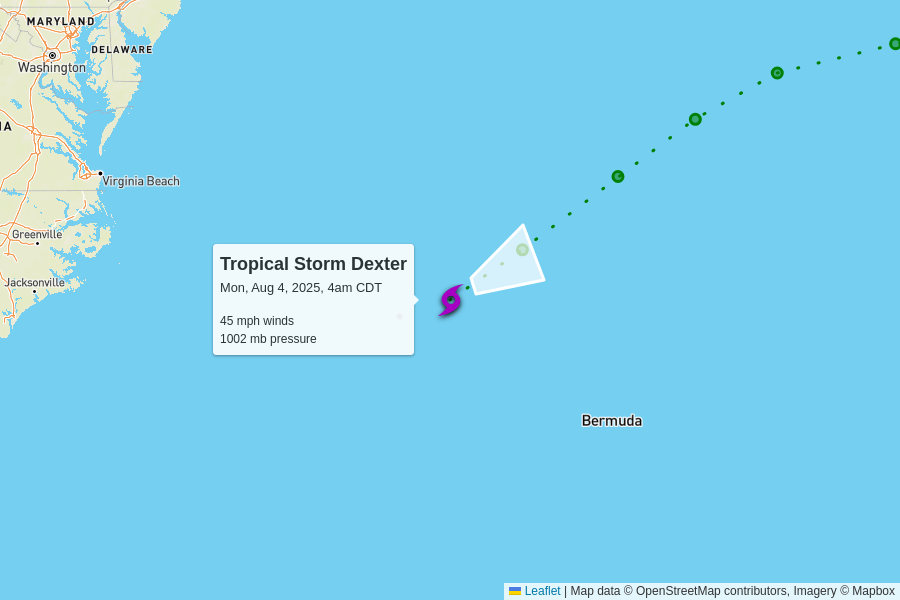
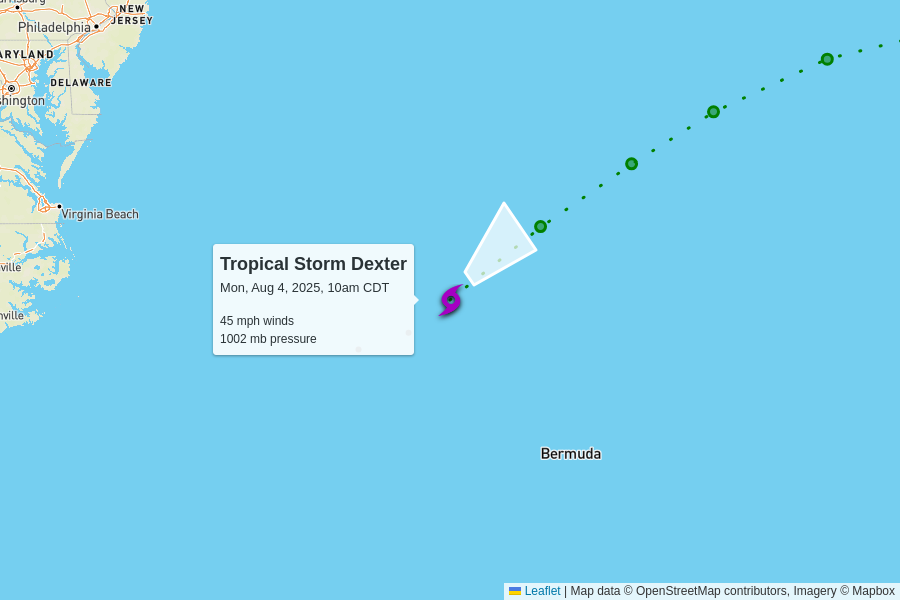
automatic update

diff --git a/docs/index.html b/docs/index.html
@@ -102,7 +102,7 @@
         <td colspan="6" class="storm category-0" >
           <h2>
             Tropical Storm Dexter
-            <p class="updated">last updated <span data-time>2025-08-04T09:00:00.000Z</span></p>
+            <p class="updated">last updated <span data-time>2025-08-04T15:00:00.000Z</span></p>
           </h2>
         </td>
       </tr>
@@ -120,9 +120,9 @@
         <td>45 mph<br>0 mph since last update</td>
         <td>1002 mb<br>0 mb since last update</td>
         <td>
-          12 mph to the east-northeast
+          14 mph to the northeast
           <br/>
-          <span style="display: inline-block; font-size: 1.5em; transform: rotate(65deg);">↑</span>
+          <span style="display: inline-block; font-size: 1.5em; transform: rotate(50deg);">↑</span>
         </td>
         <td><a href="https://raw.githubusercontent.com/mgwalker/atlantic-hurricanes/main/data/csv/AL042025.csv">AL042025.csv</a></td>
         <td><a href="https://www.nhc.noaa.gov/archive/2025/DEXTER.shtml?">NHC advisories</a></td>
